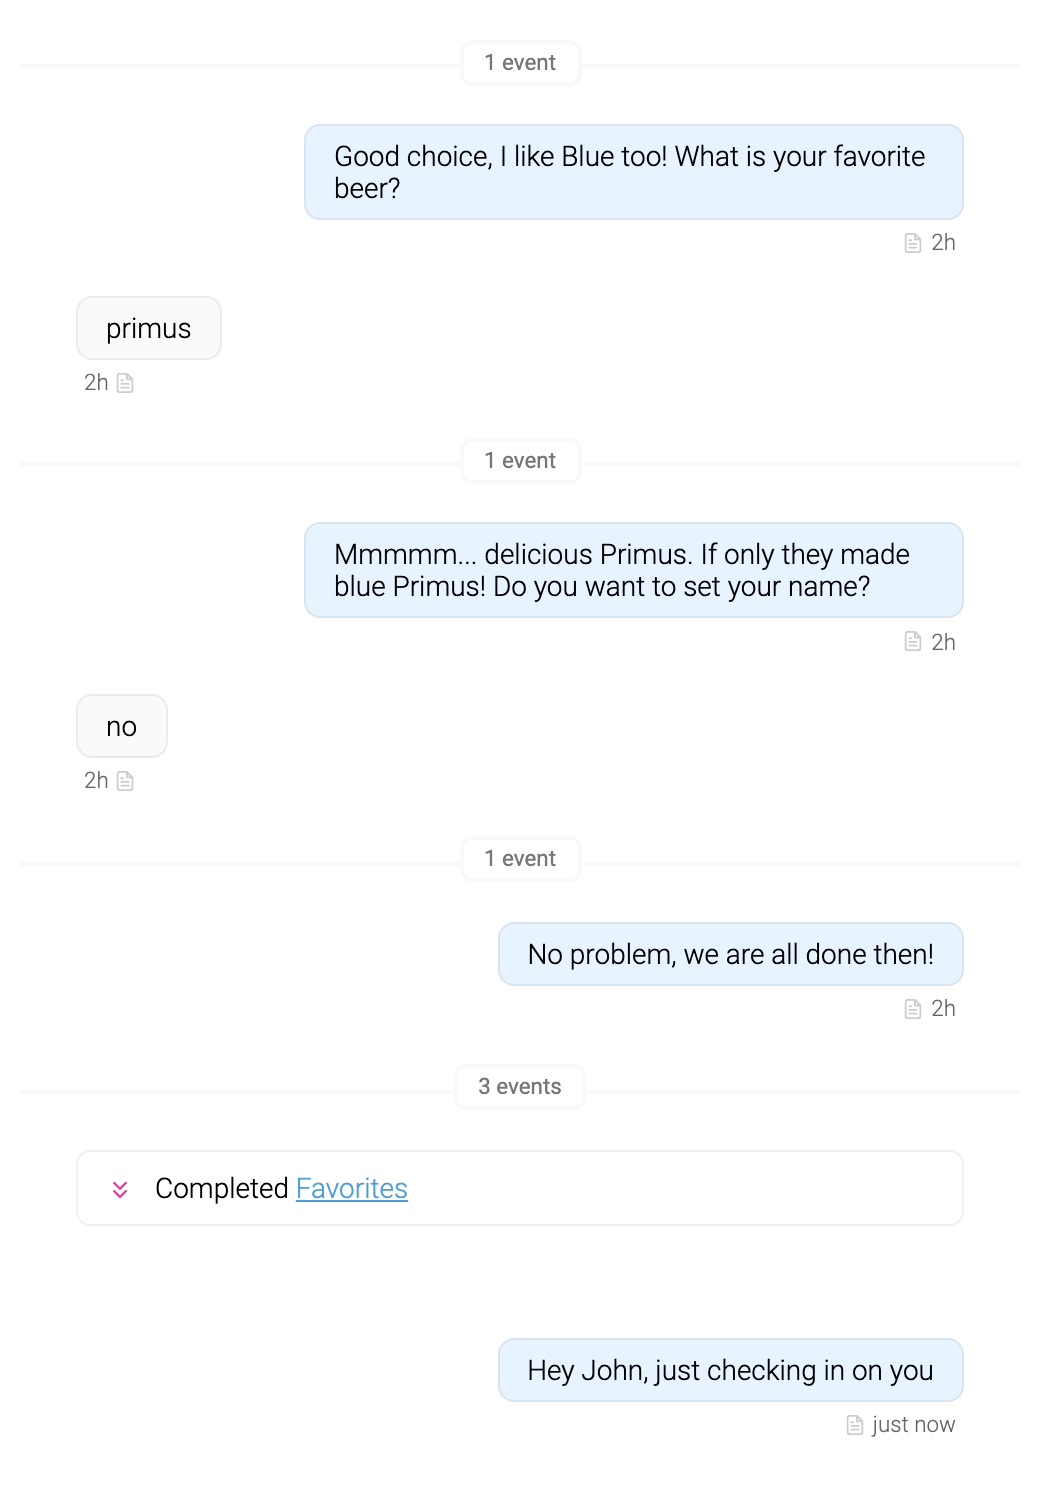
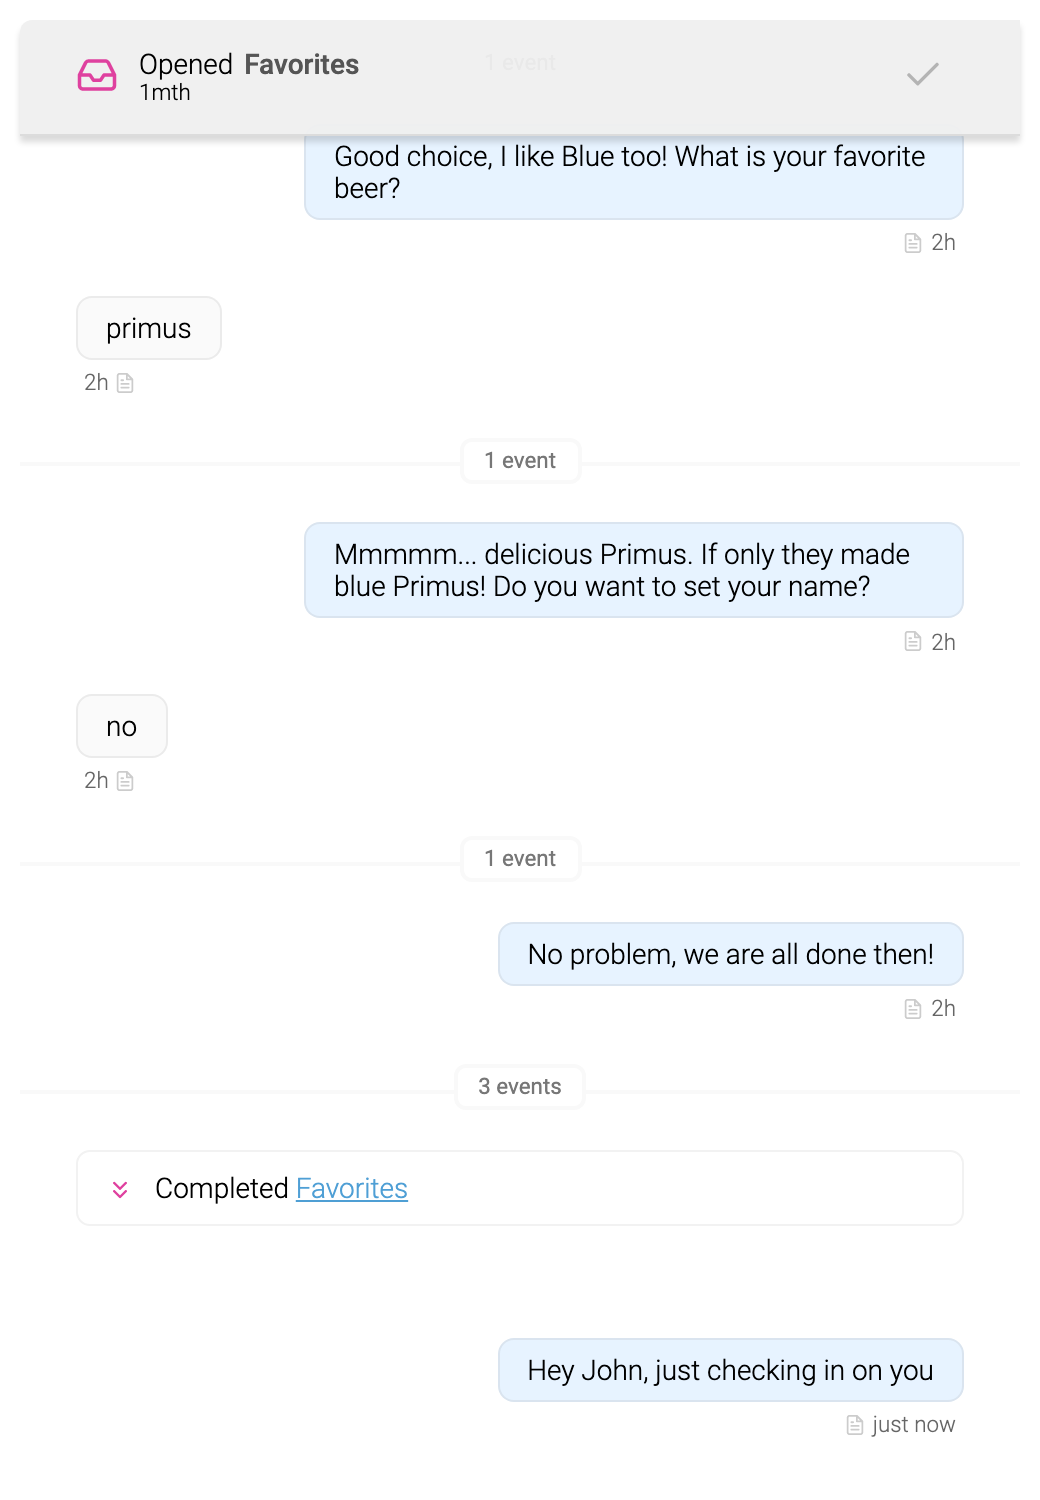
Update contact history tests, ticket treatment

Changed region(s): [[0.0615, 0.0307, 0.3385, 0.092], [0.4923, 0.0307, 0.5231, 0.0613]]

diff --git a/src/contacts/ContactHistory.ts b/src/contacts/ContactHistory.ts
@@ -93,10 +93,8 @@ export class ContactHistory extends RapidElement {
         border-top-left-radius: var(--curvature);
         overflow: hidden;
 
-        background: rgba(40, 40, 40, 0.9);
-        color: #fff;
-
-        box-shadow: 0 3px 10px 0 rgba(0, 0, 0, 0.3);
+        background: rgba(240, 240, 240, 0.95);
+        box-shadow: 0px 3px 3px 0px rgba(0, 0, 0, 0.15);
       }
 
       .sticky-bin temba-icon {
@@ -107,8 +105,7 @@ export class ContactHistory extends RapidElement {
         display: flex;
         margin: 1em -2em;
         padding: 1em 2em;
-        color: #fff;
-        background: rgba(40, 40, 40, 0.9);
+        background: rgba(240, 240, 240, 0.8);
       }
 
       .sticky.pinned {
@@ -119,10 +116,16 @@ export class ContactHistory extends RapidElement {
         margin: 0;
         padding: 1em 2em;
         border-radius: 0px;
+        border-bottom: 1px solid rgba(220, 220, 220, 1);
       }
 
       .sticky .event {
         margin-bottom: 0;
+      }
+
+      .sticky .attn,
+      .sticky-bin .attn {
+        color: var(--color-text);
       }
     `;
   }

diff --git a/test/temba-contact-history.test.ts b/test/temba-contact-history.test.ts
@@ -40,6 +40,11 @@ describe('temba-contact-history', () => {
       /\/contact\/history\/1234\/.*/,
       '/test-assets/contacts/history.json'
     );
+
+    mockGET(
+      /\/api\/v2\/tickets\.json\?contact=1234/,
+      '/test-assets/api/tickets.json'
+    );
   });
   afterEach(() => {});
 

diff --git a/src/contacts/events.ts b/src/contacts/events.ts
@@ -222,7 +222,7 @@ export const getEventStyles = () => {
     }
 
     .ticket_opened temba-icon.clickable[name='check'] {
-      fill: rgba(220, 220, 220, 1);
+      fill: rgba(180, 180, 180, 1);
     }
 
     .ticket_opened temba-icon {
